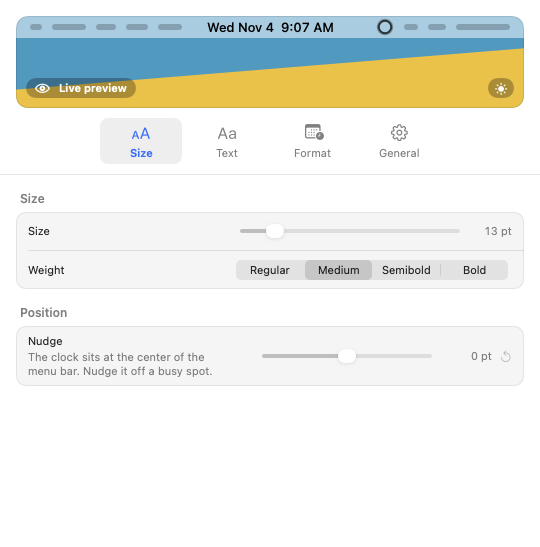
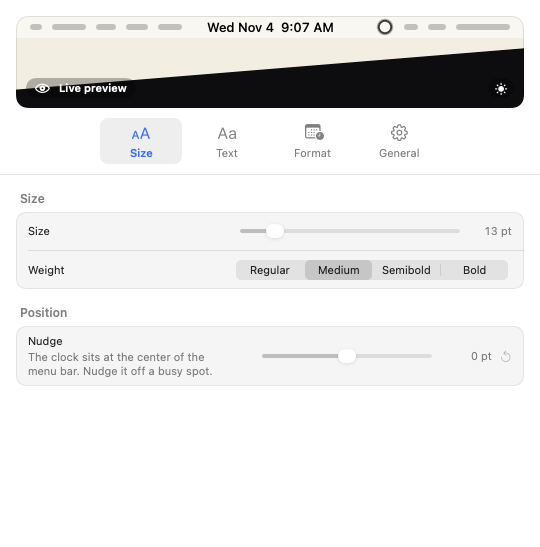
Paint the preview in suit cream and space black

Changed region(s): [[0.0296, 0.0311, 0.9778, 0.2176]]

diff --git a/Sources/Fuginaut/ClockPreview.swift b/Sources/Fuginaut/ClockPreview.swift
@@ -57,11 +57,14 @@ struct ClockPreview: View {
         }
     }
 
-    // wallpaper is a flat two-tone split on a hard diagonal, like a skate shop sign: pool blue over sun
-    // yellow for the light bar, deep teal over burnt orange for the dark one.
+    // wallpaper is a flat two-tone split on a hard diagonal in the astronaut's suit cream and space black:
+    // black over cream for the dark bar, cream over black for the light one, so the translucent bar keeps
+    // its own tone.
     private var wallpaper: some View {
-        let top = dark ? Color(red: 0.05, green: 0.23, blue: 0.26) : Color(red: 0.25, green: 0.65, blue: 0.79)
-        let bottom = dark ? Color(red: 0.78, green: 0.31, blue: 0.16) : Color(red: 0.96, green: 0.78, blue: 0.27)
+        let cream = Color(red: 0.96, green: 0.94, blue: 0.90)
+        let space = Color(red: 0.04, green: 0.04, blue: 0.05)
+        let top = dark ? space : cream
+        let bottom = dark ? cream : space
         return ZStack {
             top
             DiagonalSplit().fill(bottom)

diff --git a/README.md b/README.md
@@ -18,7 +18,7 @@ The clock is meant for big screens. While an external display is connected, a la
 starts with the clock off, and you can turn it on from General. A laptop on its own shows the
 clock. On a screen with a notch, the clock slides beside the notch instead of hiding under it.
 
-<p align="center"><img src="art/settings.png" width="540" alt="The settings window with a live preview of the menu bar over a blue and yellow two-tone, and the Size tab with size, weight, and nudge"></p>
+<p align="center"><img src="art/settings.png" width="540" alt="The settings window with a live preview of the menu bar over a cream and black two-tone, and the Size tab with size, weight, and nudge"></p>
 
 ## Settings
 
